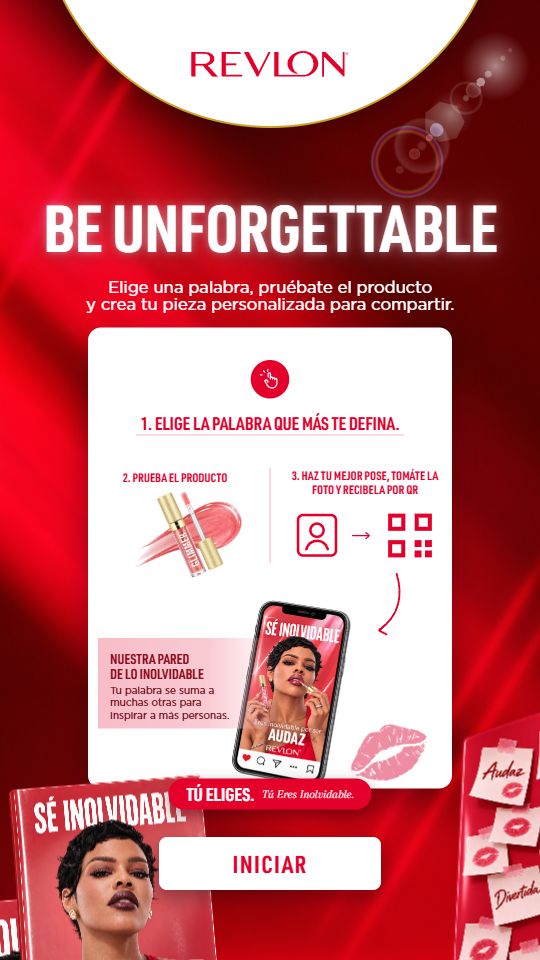
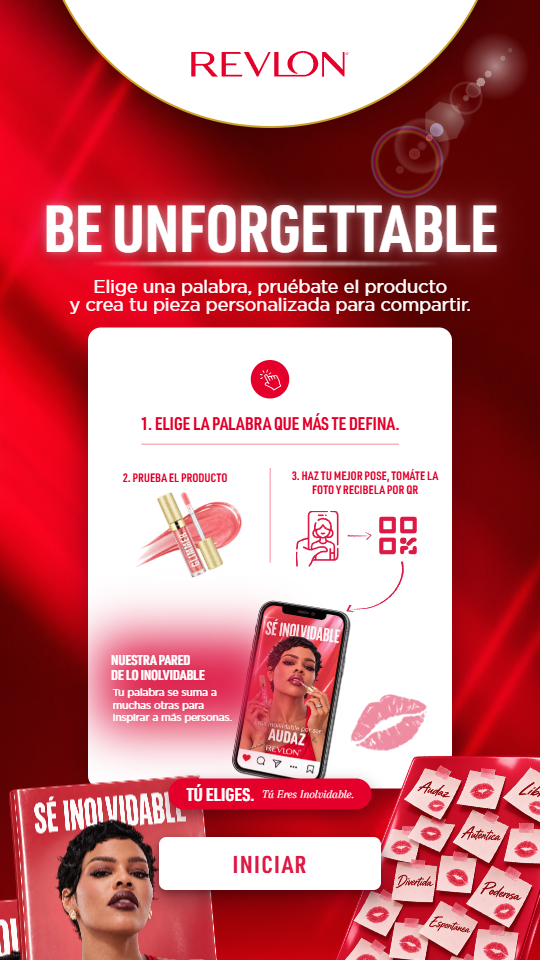
StartScreen: assets exportados y medidas reales del Figma
- Paso 3: un único SVG (3-step.svg) sustituye a SelfiePhoneIcon + ArrowIcon +
  QrIcon + CurvedArrow. Su caja (255x217) coincide exactamente con la unión de
  los cuatro nodos del Figma, así que la posición ya existente valía.
- Paso 1: leading-hand.svg en lugar de TapIcon.
- Divisores: trazo 2 -> 3 px (los vectores del Figma traen inset -1.5px a cada
  lado). El horizontal pasa a top 232 y 515 de ancho (antes 214 e inset 96).
- Subtítulo: 33 -> 36 px, line-height 1.06 -> 0.977. La fuente ya era la
  correcta: body.otf es Gotham Book (usWeightClass 325) y el Figma pide
  Gotham:Book. Lo que se percibía como peso era tamaño y interlineado.
- Banda "Nuestra pared": era un degradado rosa inventado; es un rectángulo de
  color liso #DD1945 con blur 49.3. Ambos textos pasan a blanco. Los textos
  ahora usan wallTitle/wallBody de config, que existían pero el componente
  ignoraba con valores a mano.
- Filo bajo "BE UNFORGETTABLE": Vector 10 exportado a
  images/decor/title-underline.svg. No es una barra con degradado: es una
  lente que se afila hasta desaparecer en las puntas más un gaussiano de 3.15,
  y el archivo incluye el sangrado del desenfoque.
- CTA: radio 16 -> 15 y texto en el rojo de las maquetas.

Se añade BRAND.colors.primaryMockup (#DD1945): es el rojo que usan de verdad
las maquetas, distinto del corporativo `primary` (#E4002B). Separados a
propósito — unificarlos cambia las cinco pantallas.
[…]

diff --git a/src/screens/StartScreen.tsx b/src/screens/StartScreen.tsx
@@ -6,7 +6,6 @@ import { LensFlares } from '../components/LensFlare'
 import { LightBeams } from '../components/LightBeam'
 import { BrandArc } from '../components/BrandArc'
 import { ScreenLayer } from '../components/Stage'
-import { ArrowIcon, CurvedArrow, QrIcon, SelfiePhoneIcon, TapIcon } from '../components/icons'
 import { preloadLayerAssets } from '../lib/assets'
 import { warmUpVision } from '../vision/visionLoader'
 import { useKioskStore } from '../store/kioskStore'
@@ -55,6 +54,24 @@ export function StartScreen() {
         BE UNFORGETTABLE
       </h1>
 
+      {/*
+        Filo bajo el titular. Es un SVG exportado y no un div con degradado
+        porque la forma no es una barra: es una lente que se afila hasta
+        desaparecer en las puntas, con un desenfoque gaussiano encima. El
+        archivo ya trae el sangrado del desenfoque, de ahí sus medidas.
+      */}
+      <img
+        src={IMAGES.titleUnderline}
+        alt=""
+        className="pointer-events-none absolute"
+        style={{
+          left: L.titleUnderline.x,
+          top: L.titleUnderline.y,
+          width: L.titleUnderline.width,
+          height: L.titleUnderline.height,
+        }}
+      />
+
       <p
         className="pointer-events-none absolute text-center"
         style={{
@@ -89,7 +106,7 @@ export function StartScreen() {
         label="tablero"
         fit="cover"
         className="pointer-events-none"
-        style={{ left: L.board.x, top: L.board.y, width: L.board.width, height: L.board.height }}
+        style={{ left: L.board.x, top: L.board.y, transform: `rotate(${L.board.rotate}deg)`, width: L.board.width, height: L.board.height }}
       />
 
       <div
@@ -129,11 +146,13 @@ export function StartScreen() {
           height: L.cta.height,
           borderRadius: L.cta.radius,
           background: BRAND.colors.white,
-          color: BRAND.colors.primary,
+          color: BRAND.colors.primaryMockup,
           fontFamily: BRAND.fonts.display,
           fontSize: L.cta.fontSize,
           letterSpacing: '0.06em',
-          boxShadow: '0 16px 40px rgba(40,0,8,0.45)',
+          // Doble sombra: una corta y cerrada que asienta el botón sobre la
+          // tarjeta, y otra larga y difusa que lo separa del fondo.
+          boxShadow: '0 6px 14px rgba(40,0,8,0.35), 0 20px 48px rgba(40,0,8,0.45)',
         }}
       >
         INICIAR
@@ -164,7 +183,7 @@ function InstructionsCard() {
         className="absolute left-1/2 flex -translate-x-1/2 items-center justify-center rounded-full"
         style={{ top: L.stepIcon.top, width: L.stepIcon.size, height: L.stepIcon.size, background: red }}
       >
-        <TapIcon size={L.stepIcon.size * 0.56} style={{ color: BRAND.colors.white }} />
+        <img src={IMAGES.leadingHand} alt="" width={51} height={56} className="pointer-events-none" />
       </div>
       <p
         className="absolute left-0 right-0 text-center"
@@ -178,7 +197,7 @@ function InstructionsCard() {
           top: L.divider.top,
           left: L.divider.inset,
           right: L.divider.inset,
-          height: 2,
+          height: L.divider.thickness,
           background: 'rgba(228,0,43,0.30)',
         }}
       />
@@ -220,9 +239,9 @@ function InstructionsCard() {
       <div
         className="absolute"
         style={{
-          left: L.card.width / 2 - 1,
+          left: L.card.width / 2 - L.columnDivider.thickness / 2,
           top: L.columnDivider.top,
-          width: 2,
+          width: L.columnDivider.thickness,
           height: L.columnDivider.height,
           background: 'rgba(228,0,43,0.30)',
         }}
@@ -242,19 +261,20 @@ function InstructionsCard() {
       >
         3. HAZ TU MEJOR POSE, TOMÁTE LA FOTO Y RECIBELA POR QR
       </p>
-      <div
-        className="absolute flex items-center justify-center"
-        style={{ top: L.howToIcons.top, right: 24, width: 300, gap: 26, color: red }}
-      >
-        <SelfiePhoneIcon size={L.howToIcons.selfieWidth} />
-        <ArrowIcon size={L.shortArrow.width} />
-        <QrIcon size={L.howToIcons.qrSize} />
-      </div>
-      <CurvedArrow
-        width={110}
-        height={140}
-        className="absolute"
-        style={{ right: 96, top: L.howToIcons.top + 120, color: red }}
+      {/*
+        El SVG exportado trae el paso 3 entero —móvil, flecha recta, QR y flecha
+        curva— así que sustituye a los cuatro componentes de icono que había.
+      */}
+      <img
+        src={IMAGES.stepThree}
+        alt=""
+        className="pointer-events-none absolute"
+        style={{
+          left: L.stepThree.x,
+          top: L.stepThree.y,
+          width: L.stepThree.width,
+          height: L.stepThree.height,
+        }}
       />
 
       {/* Mockup del resultado */}
@@ -265,7 +285,13 @@ function InstructionsCard() {
         style={{ left: L.phone.x, top: L.phone.y, width: L.phone.width, height: L.phone.height }}
       />
 
-      {/* Banda "Nuestra pared de lo inolvidable" */}
+      {/*
+        Banda "Nuestra pared de lo inolvidable".
+
+        El fondo es un rectángulo de color LISO con un desenfoque muy alto, no
+        un degradado: así se funde con la tarjeta por los cuatro lados a la vez.
+        Va en su propia capa porque el blur no debe tocar al texto de encima.
+      */}
       <div
         className="absolute"
         style={{
@@ -273,12 +299,20 @@ function InstructionsCard() {
           top: L.wallBand.y,
           width: L.wallBand.width,
           height: L.wallBand.height,
-          background: 'linear-gradient(to right, rgba(247,185,196,0.95) 0%, rgba(247,185,196,0.75) 62%, rgba(247,185,196,0) 100%)',
+          background: BRAND.colors.primaryMockup,
+          filter: `blur(${L.wallBand.blur}px)`,
         }}
       />
       <p
         className="absolute leading-[1.1]"
-        style={{ left: 44, top: L.wallBand.y + 26, width: 260, fontSize: 27, color: '#8E0C1E', fontFamily: BRAND.fonts.display }}
+        style={{
+          left: L.wallTitle.x,
+          top: L.wallTitle.y,
+          width: L.wallTitle.width,
+          fontSize: L.wallTitle.fontSize,
+          color: BRAND.colors.white,
+          fontFamily: BRAND.fonts.display,
+        }}
       >
         NUESTRA PARED
         <br />
@@ -286,7 +320,15 @@ function InstructionsCard() {
       </p>
       <p
         className="absolute"
-        style={{ left: 44, top: L.wallBand.y + 92, width: 250, fontSize: 20, lineHeight: 1.25, color: '#6E0A17', fontFamily: BRAND.fonts.body }}
+        style={{
+          left: L.wallBody.x,
+          top: L.wallBody.y,
+          width: L.wallBody.width,
+          fontSize: L.wallBody.fontSize,
+          lineHeight: L.wallBody.lineHeight,
+          color: BRAND.colors.white,
+          fontFamily: BRAND.fonts.body,
+        }}
       >
         Tu palabra se suma a muchas otras para inspirar a más personas.
       </p>

diff --git a/src/config.ts b/src/config.ts
@@ -42,6 +42,13 @@ export const BRAND = {
     white: '#FFFFFF',
     /** Rojo Revlon de los botones y titulares dentro de tarjeta. */
     primary: '#E4002B',
+    /**
+     * El rojo que usan de verdad las maquetas del Figma: el texto de INICIAR,
+     * la banda de "Nuestra pared"... NO coincide con `primary` (#E4002B), que
+     * es el rojo corporativo. Se mantienen separados a propósito hasta decidir
+     * cuál manda; unificarlos cambia las cinco pantallas de golpe.
+     */
+    primaryMockup: '#DD1945',
     /** Rojo profundo del fondo y de la pantalla de carga. */
     primaryDeep: '#8E0C1E',
     /** Casi negro rojizo: fondo de la pantalla 04. */
@@ -690,6 +697,15 @@ export const IMAGES = {
   backdrop: asset('/images/backdrop.png'),
   /** Marca de labios de la tarjeta de instrucciones. */
   lips: asset('/images/lips.png'),
+  /** Icono del paso 1, dentro del círculo rojo. */
+  leadingHand: asset('/images/leading-hand.svg'),
+  /**
+   * Paso 3 completo en un solo SVG: móvil, flecha recta, QR y flecha curva.
+   * Sustituye a los cuatro componentes de icono que había antes.
+   */
+  stepThree: asset('/images/3-step.svg'),
+  /** Filo difuminado bajo "BE UNFORGETTABLE" (Vector 10 del Figma). */
+  titleUnderline: asset('/images/decor/title-underline.svg'),
 
   /* — PENDIENTE — */
   /** Fondo terciopelo oscuro de la pantalla 04 (la de procesando). */
@@ -881,27 +897,49 @@ export const LAYOUT = {
    */
   start: {
     title: { x: 83, y: 388, width: 915, height: 100, fontSize: 130, letterSpacing: -0.01 },
-    subtitle: { x: 138, y: 556, width: 804, height: 70, fontSize: 33, lineHeight: 1.06 },
+    /** Gotham Book 36/0.977, medido en el Figma (nodo 355:19296). */
+    subtitle: { x: 138, y: 556, width: 804, height: 70, fontSize: 36, lineHeight: 0.977 },
+    /**
+     * Filo bajo el titular (Vector 10, 384:111): x=180, y=527.5, ancho 698.5.
+     * No es un rectángulo — es una lente que se afila hasta desaparecer en las
+     * puntas, más un desenfoque gaussiano de 3.15. Por eso va como SVG
+     * exportado y no como un div con degradado: reproducirlo a mano se acerca,
+     * pero el afilado de las puntas no sale igual.
+     *
+     * El SVG mide 711.1×18.6 porque incluye el sangrado del desenfoque; de ahí
+     * los offsets, que lo recolocan sobre la línea real.
+     */
+    titleUnderline: { x: 180 - 6.3, y: 527.5 - 9.3, width: 711.1, height: 18.6 },
     card: { x: 176, y: 655, width: 728, height: 922, radius: 26 },
 
     /* — hijos de la tarjeta, relativos a (176, 655) — */
     stepIcon: { top: 65, size: 77 },
     step1: { top: 166, fontSize: 35 },
-    divider: { top: 214, inset: 96 },
+    /** Vector 11 (384:142): 515 de ancho y trazo de 3, centrado en la tarjeta. */
+    divider: { top: 232, inset: (728 - 515) / 2, thickness: 3 },
     stepsRow: { top: 281, fontSize: 24, leftX: 67, leftWidth: 226, rightX: 385, rightWidth: 300 },
     swatch: { x: 87, y: 299, size: 222 },
     /** El PNG viene recto; la inclinación de la maqueta se aplica por CSS. */
     product: { x: 114, y: 319, size: 179, rotate: -24 },
-    columnDivider: { x: 364, top: 281, height: 189 },
-    howToIcons: { top: 366, selfieX: 415, selfieWidth: 86, selfieHeight: 112, qrX: 570, qrSize: 100 },
-    shortArrow: { x: 519, y: 416, width: 41 },
-    curvedArrow: { x: 555, y: 451, width: 107, height: 131 },
+    /** Vector 7 (371:424): mismo trazo de 3 que el divisor horizontal. */
+    columnDivider: { x: 364, top: 281, height: 189, thickness: 3 },
+    /**
+     * Paso 3 en un único SVG. La caja sale de unir los cuatro nodos del Figma
+     * (móvil 591,1021 · flecha · QR · curva), que dan exactamente 255×217 — el
+     * tamaño del archivo exportado.
+     */
+    stepThree: { x: 415, y: 366, width: 255, height: 217 },
     phone: { x: 218, y: 543, width: 373, height: 377 },
-    wallBand: { x: 20, y: 621, width: 356, height: 181 },
+    /**
+     * Banda de "Nuestra pared" (Rectangle 12, 371:388). No es un degradado:
+     * es un rectángulo de color liso con un desenfoque muy alto, que lo
+     * convierte en una mancha suave. La tarjeta recorta lo que se sale.
+     */
+    wallBand: { x: 20, y: 621, width: 356, height: 181, blur: 49.3 },
     wallTitle: { x: 46, y: 650, width: 222, fontSize: 27 },
-    wallBody: { x: 49, y: 718, width: 240, fontSize: 20 },
+    wallBody: { x: 49, y: 718, width: 240, fontSize: 20, lineHeight: 1.25 },
     /** La rotación de −19.3° ya viene horneada en el PNG exportado. */
-    lips: { x: 505, y: 772, width: 192, height: 156 },
+    lips: { x: 505, y: 712, width: 192, height: 156 },
 
     /* — atrezo y controles, en coordenadas de pantalla — */
     /** Son DOS revistas superpuestas, no una. */
@@ -909,7 +947,7 @@ export const LAYOUT = {
       { x: -270, y: 1798, width: 655, height: 704 },
       { x: -25, y: 1533, width: 494, height: 596 },
     ],
-    board: { x: 731, y: 1345, width: 791, height: 856 },
+    board: { x: 600, y: 1424, rotate: 18.38, width: 600, height: 702 },
     /**
      * Los dos textos van colocados, no en flujo: en el Figma están en
      * x=382 y x=529 (relativos a la píldora, 45 y 192) y con tamaños muy
@@ -927,7 +965,8 @@ export const LAYOUT = {
       taglineY: 15,
       taglineFontSize: 23.5,
     },
-    cta: { x: 318, y: 1674, width: 444, height: 106, radius: 16, fontSize: 48 },
+    /** Radio 15 y texto en el rojo de las maquetas, medido en el Figma. */
+    cta: { x: 318, y: 1674, width: 444, height: 106, radius: 15, fontSize: 48 },
 
     /** Los cuatro haces del Figma: dos arriba-izquierda, dos abajo-derecha. */
     beams: [
